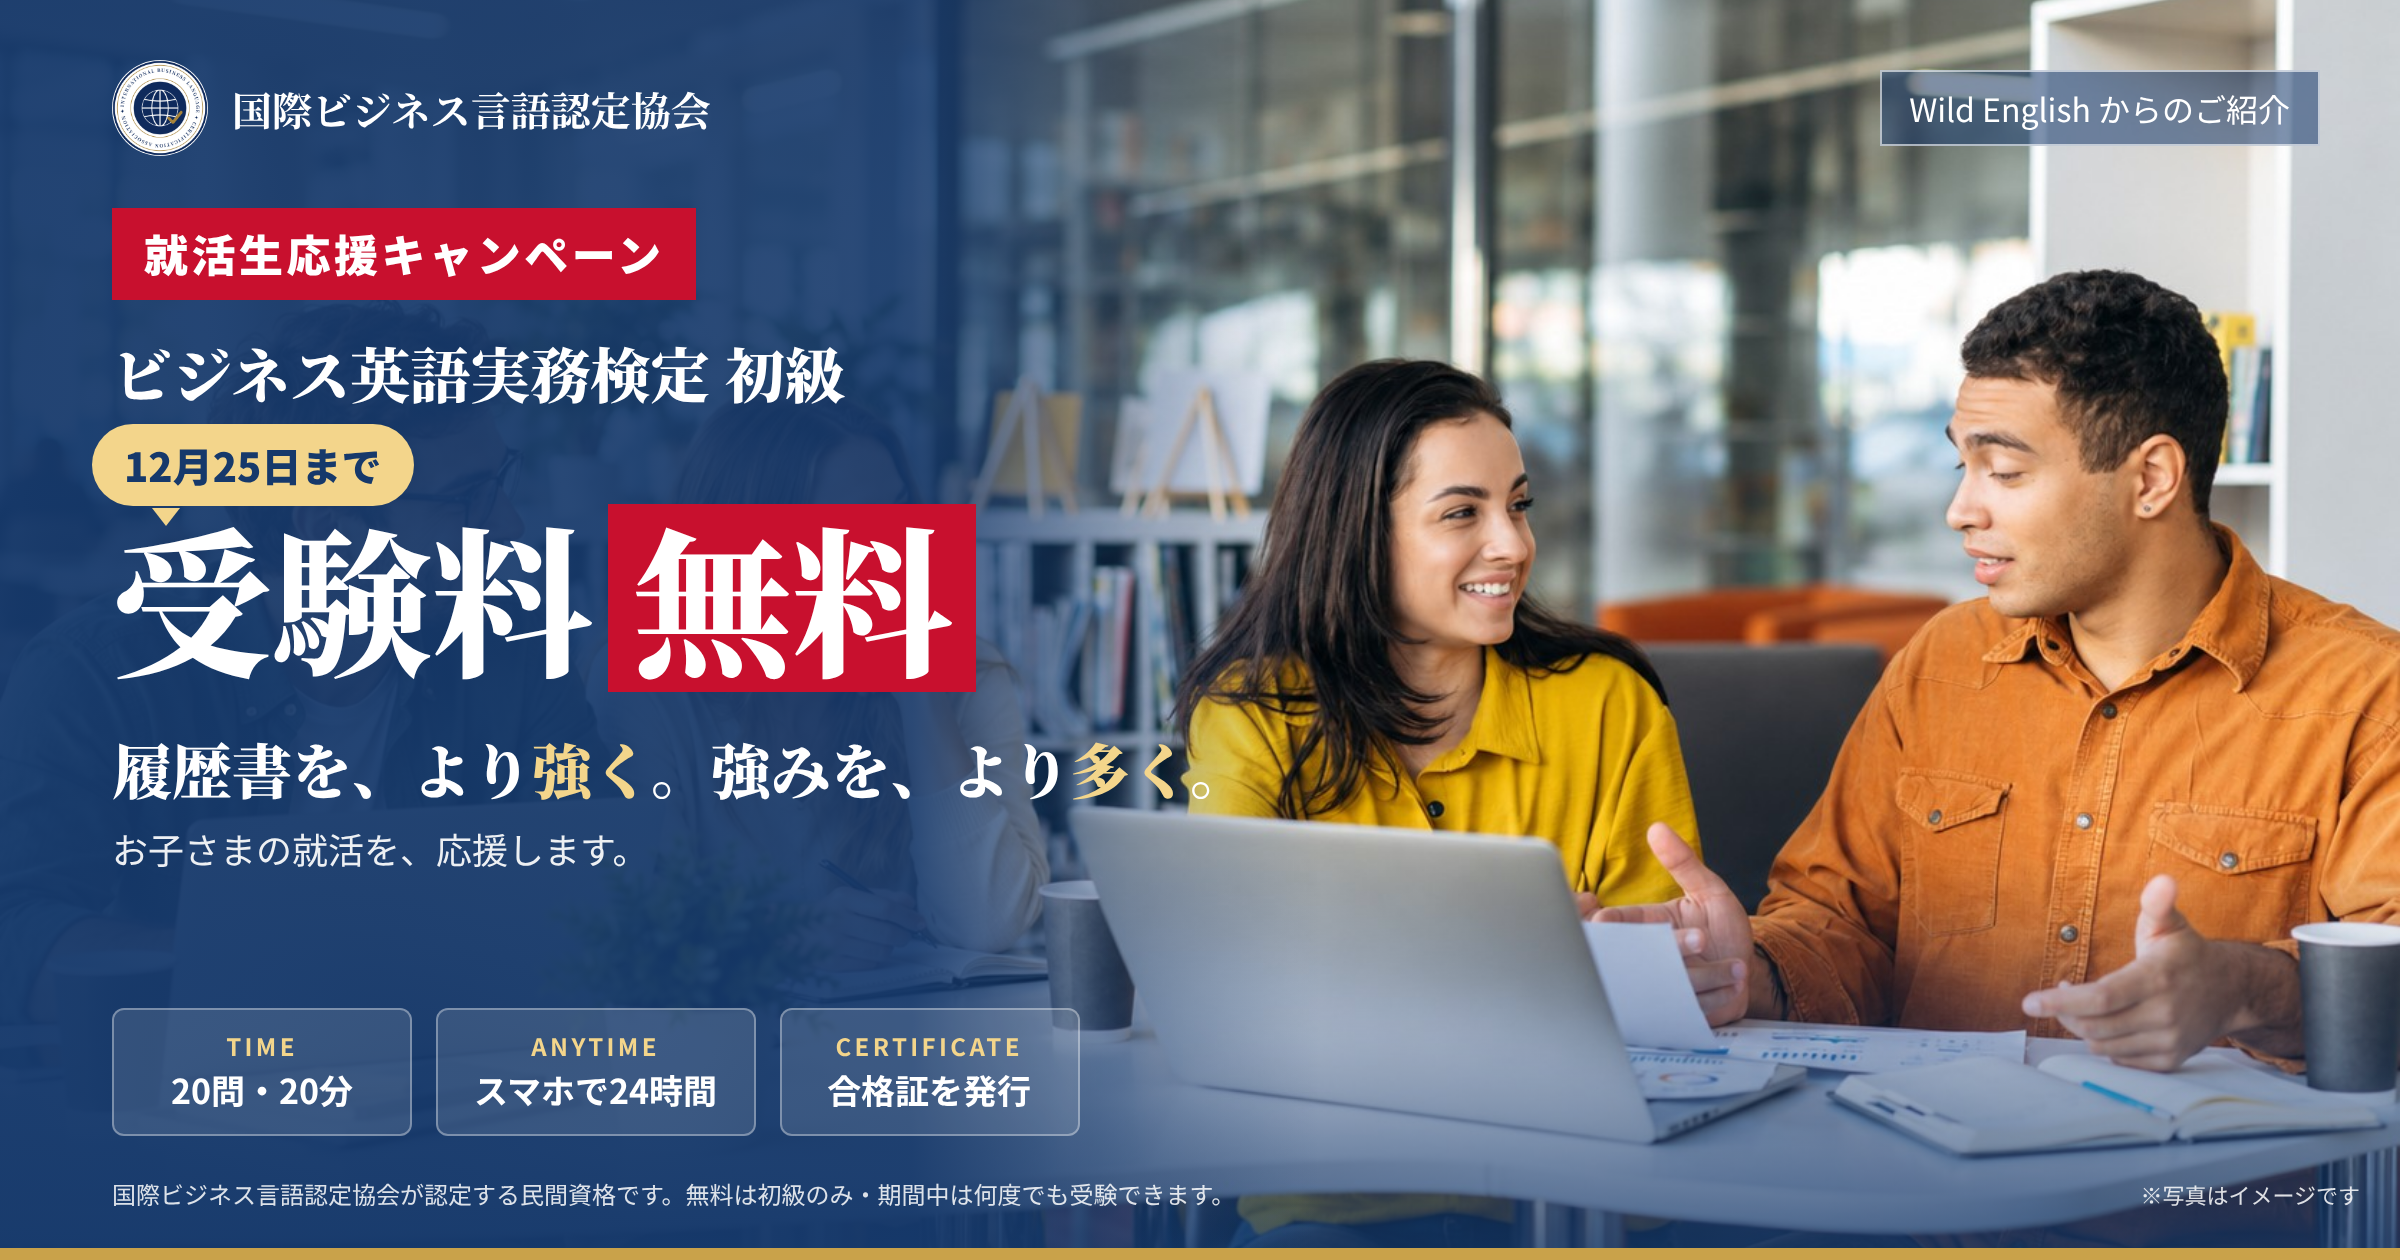
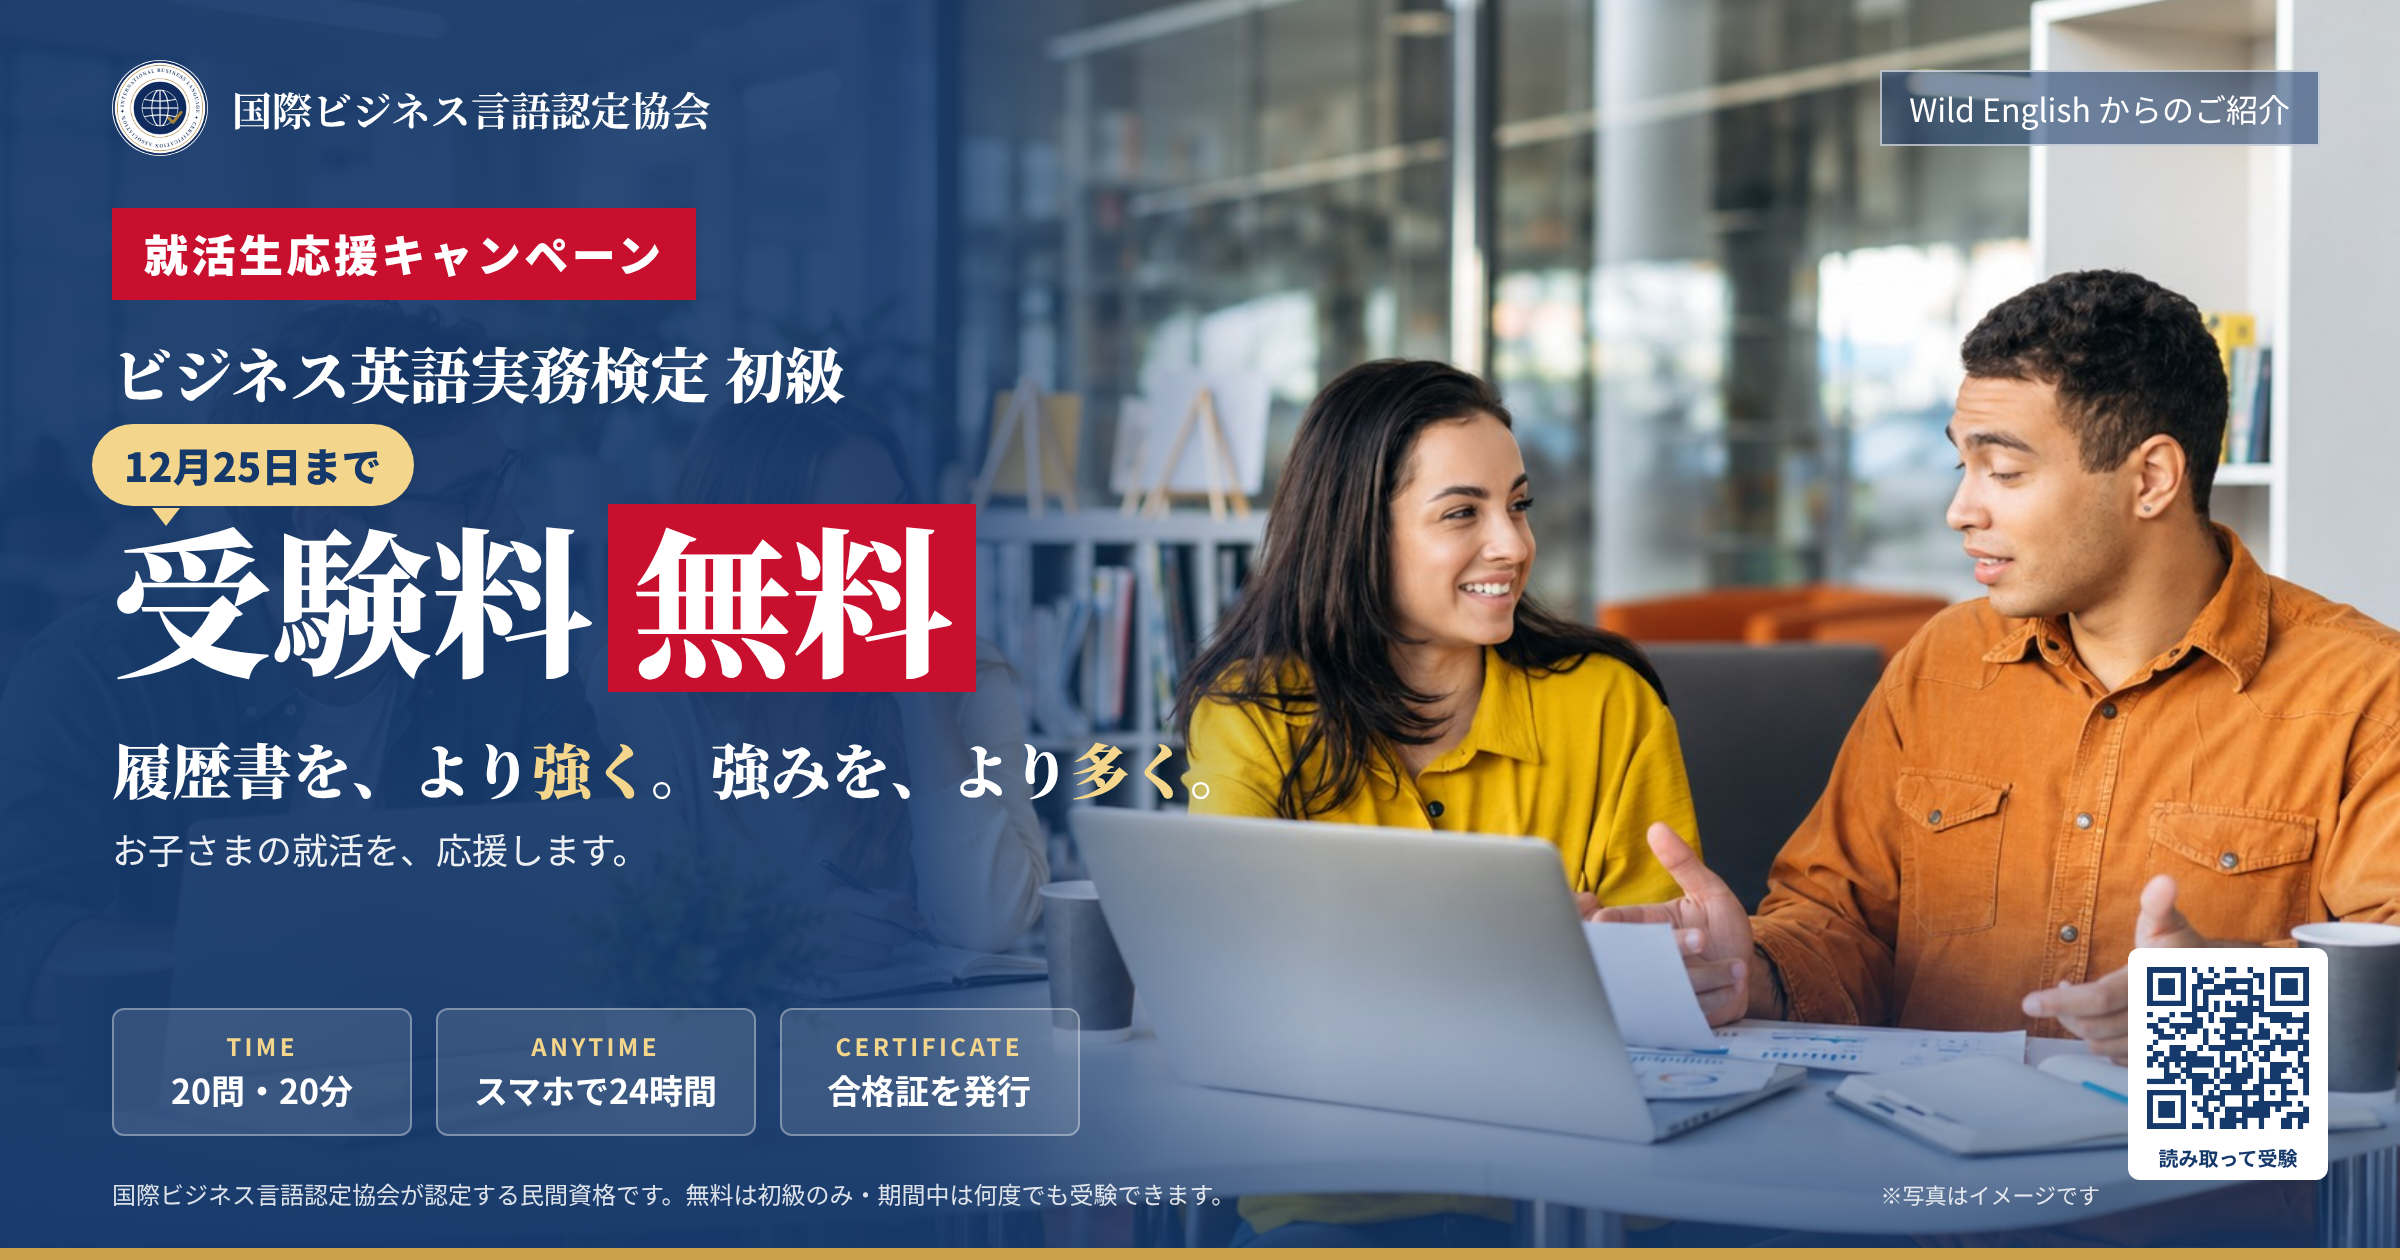
FB広告：QR（/we）を追加、正方形版を作成
Claude-Session: https://claude.ai/code/session_01T3NaLWbuuvRT9b8SoudneK

Changed region(s): [[0.7812, 0.7429, 0.9688, 0.9595]]

diff --git a/assets/本陣へ/fb_src/combo_1080.html b/assets/本陣へ/fb_src/combo_1080.html
@@ -1,0 +1,46 @@
+<!doctype html><html><head><meta charset="utf-8"><style>
+*{margin:0;padding:0;box-sizing:border-box}
+:root{--navy:#16396b;--gold:#f3d58b;--red:#c8102e}
+body{width:1080px;height:1080px;position:relative;overflow:hidden;font-family:"Noto Sans CJK JP",sans-serif;color:#fff;background:var(--navy)}
+.photo{position:absolute;left:0;right:0;top:0;height:500px;background:url(students.jpg) 60% 30%/cover}
+.fade{position:absolute;left:0;right:0;top:340px;height:162px;background:linear-gradient(0deg,var(--navy) 0%,rgba(22,57,107,0) 100%)}
+.top{position:absolute;left:30px;right:30px;top:26px;display:flex;justify-content:space-between;align-items:center}
+.org{display:flex;align-items:center;gap:12px;background:rgba(22,57,107,.85);padding:8px 18px 8px 10px;border-radius:40px}
+.org img{width:44px;height:44px;background:#fff;border-radius:50%}.org b{font-family:"Noto Serif CJK JP",serif;font-size:20px}
+.pr{border:1px solid rgba(255,255,255,.7);font-size:17px;padding:7px 14px;background:rgba(22,57,107,.8)}
+.cap{position:absolute;right:24px;top:470px;font-size:12px;opacity:.85}
+.main{position:absolute;left:64px;right:64px;top:440px}
+.tag{display:inline-block;background:var(--red);font-weight:900;font-size:28px;padding:9px 20px;letter-spacing:.08em}
+.kentei{font-family:"Noto Serif CJK JP",serif;font-weight:900;font-size:38px;margin-top:16px}
+.row{position:relative;margin-top:52px}
+.bubble{position:absolute;left:-8px;top:-46px;background:var(--gold);color:var(--navy);font-weight:900;font-size:24px;padding:6px 18px;border-radius:24px;white-space:nowrap;z-index:2}
+.bubble:after{content:"";position:absolute;left:34px;bottom:-10px;border:8px solid transparent;border-top:10px solid var(--gold);border-bottom:0}
+.free{font-family:"Noto Serif CJK JP",serif;font-weight:900;font-size:104px;line-height:1.1;white-space:nowrap}
+.free em{font-style:normal;display:inline-block;background:var(--red);padding:6px 14px 10px;margin-left:10px;line-height:1}
+.flag{font-family:"Noto Serif CJK JP",serif;font-weight:900;font-size:40px;margin-top:20px;white-space:nowrap}
+.flag em{font-style:normal;color:var(--gold)}
+.parent{font-size:24px;margin-top:8px;opacity:.92}
+.facts{position:absolute;left:64px;bottom:66px;display:flex;gap:12px}
+.fact{background:rgba(255,255,255,.12);border:1px solid rgba(255,255,255,.35);border-radius:6px;text-align:center;padding:12px 16px;min-width:178px}
+.fact b{display:block;color:var(--gold);font-size:13px;letter-spacing:.14em}
+.fact span{font-weight:700;font-size:21px}
+.qrw{position:absolute;right:64px;bottom:58px;background:#fff;border-radius:8px;padding:6px;text-align:center}
+.qrw img{display:block;width:138px;height:138px}
+.qrw span{display:block;color:var(--navy);font-size:13px;font-weight:700;margin-top:2px}
+.note{position:absolute;left:64px;bottom:26px;font-size:14px;opacity:.85}
+.line{position:absolute;left:0;right:0;bottom:0;height:8px;background:#c9a24a}
+</style></head><body>
+<div class="photo"></div><div class="fade"></div>
+<div class="top"><div class="org"><img src="logo.png"><b>国際ビジネス言語認定協会</b></div><div class="pr">Wild English からのご紹介</div></div>
+<div class="main">
+<span class="tag">就活生応援キャンペーン</span>
+<div class="kentei">ビジネス英語実務検定 初級</div>
+<div class="row"><div class="bubble">12月25日まで</div><div class="free">受験料<em>無料</em></div></div>
+<div class="flag">履歴書を、より<em>強く</em>。強みを、より<em>多く</em>。</div>
+<div class="parent">お子さまの就活を、応援します。</div>
+</div>
+<div class="facts"><div class="fact"><b>TIME</b><span>20問・20分</span></div><div class="fact"><b>ANYTIME</b><span>スマホで24時間</span></div><div class="fact"><b>CERTIFICATE</b><span>合格証を発行</span></div></div>
+<div class="qrw"><img src="qr_we.png"><span>読み取って受験</span></div>
+<div class="note">国際ビジネス言語認定協会が認定する民間資格です。無料は初級のみ。※写真はイメージです</div>
+<div class="line"></div>
+</body></html>

diff --git a/assets/本陣へ/fb_src/combo_1200x630.html b/assets/本陣へ/fb_src/combo_1200x630.html
@@ -25,8 +25,11 @@ body{width:1200px;height:630px;position:relative;overflow:hidden;font-family:"No
 .fact b{display:block;color:var(--gold);font-size:12px;letter-spacing:.14em}
 .fact span{font-weight:700;font-size:17px}
 .note{position:absolute;left:56px;bottom:24px;font-size:12px;opacity:.85}
-.cap{position:absolute;right:20px;bottom:24px;font-size:11px;opacity:.85}
+.cap{position:absolute;right:150px;bottom:24px;font-size:11px;opacity:.85}
 .line{position:absolute;left:0;right:0;bottom:0;height:6px;background:#c9a24a}
+.qrw{position:absolute;right:36px;bottom:40px;background:#fff;border-radius:6px;padding:4px;text-align:center}
+.qrw img{display:block;width:92px;height:92px}
+.qrw span{display:block;color:#16396b;font-size:10px;font-weight:700;margin-top:1px}
 </style></head><body>
 <div class="bg"></div><div class="shade"></div>
 <div class="top"><div class="org"><img src="logo.png"><b>国際ビジネス言語認定協会</b></div><div class="pr">Wild English からのご紹介</div></div>
@@ -38,6 +41,7 @@ body{width:1200px;height:630px;position:relative;overflow:hidden;font-family:"No
 <div class="parent">お子さまの就活を、応援します。</div>
 </div>
 <div class="facts"><div class="fact"><b>TIME</b><span>20問・20分</span></div><div class="fact"><b>ANYTIME</b><span>スマホで24時間</span></div><div class="fact"><b>CERTIFICATE</b><span>合格証を発行</span></div></div>
+<div class="qrw"><img src="qr_we.png"><span>読み取って受験</span></div>
 <div class="note">国際ビジネス言語認定協会が認定する民間資格です。無料は初級のみ・期間中は何度でも受験できます。</div>
 <div class="cap">※写真はイメージです</div>
 <div class="line"></div>
